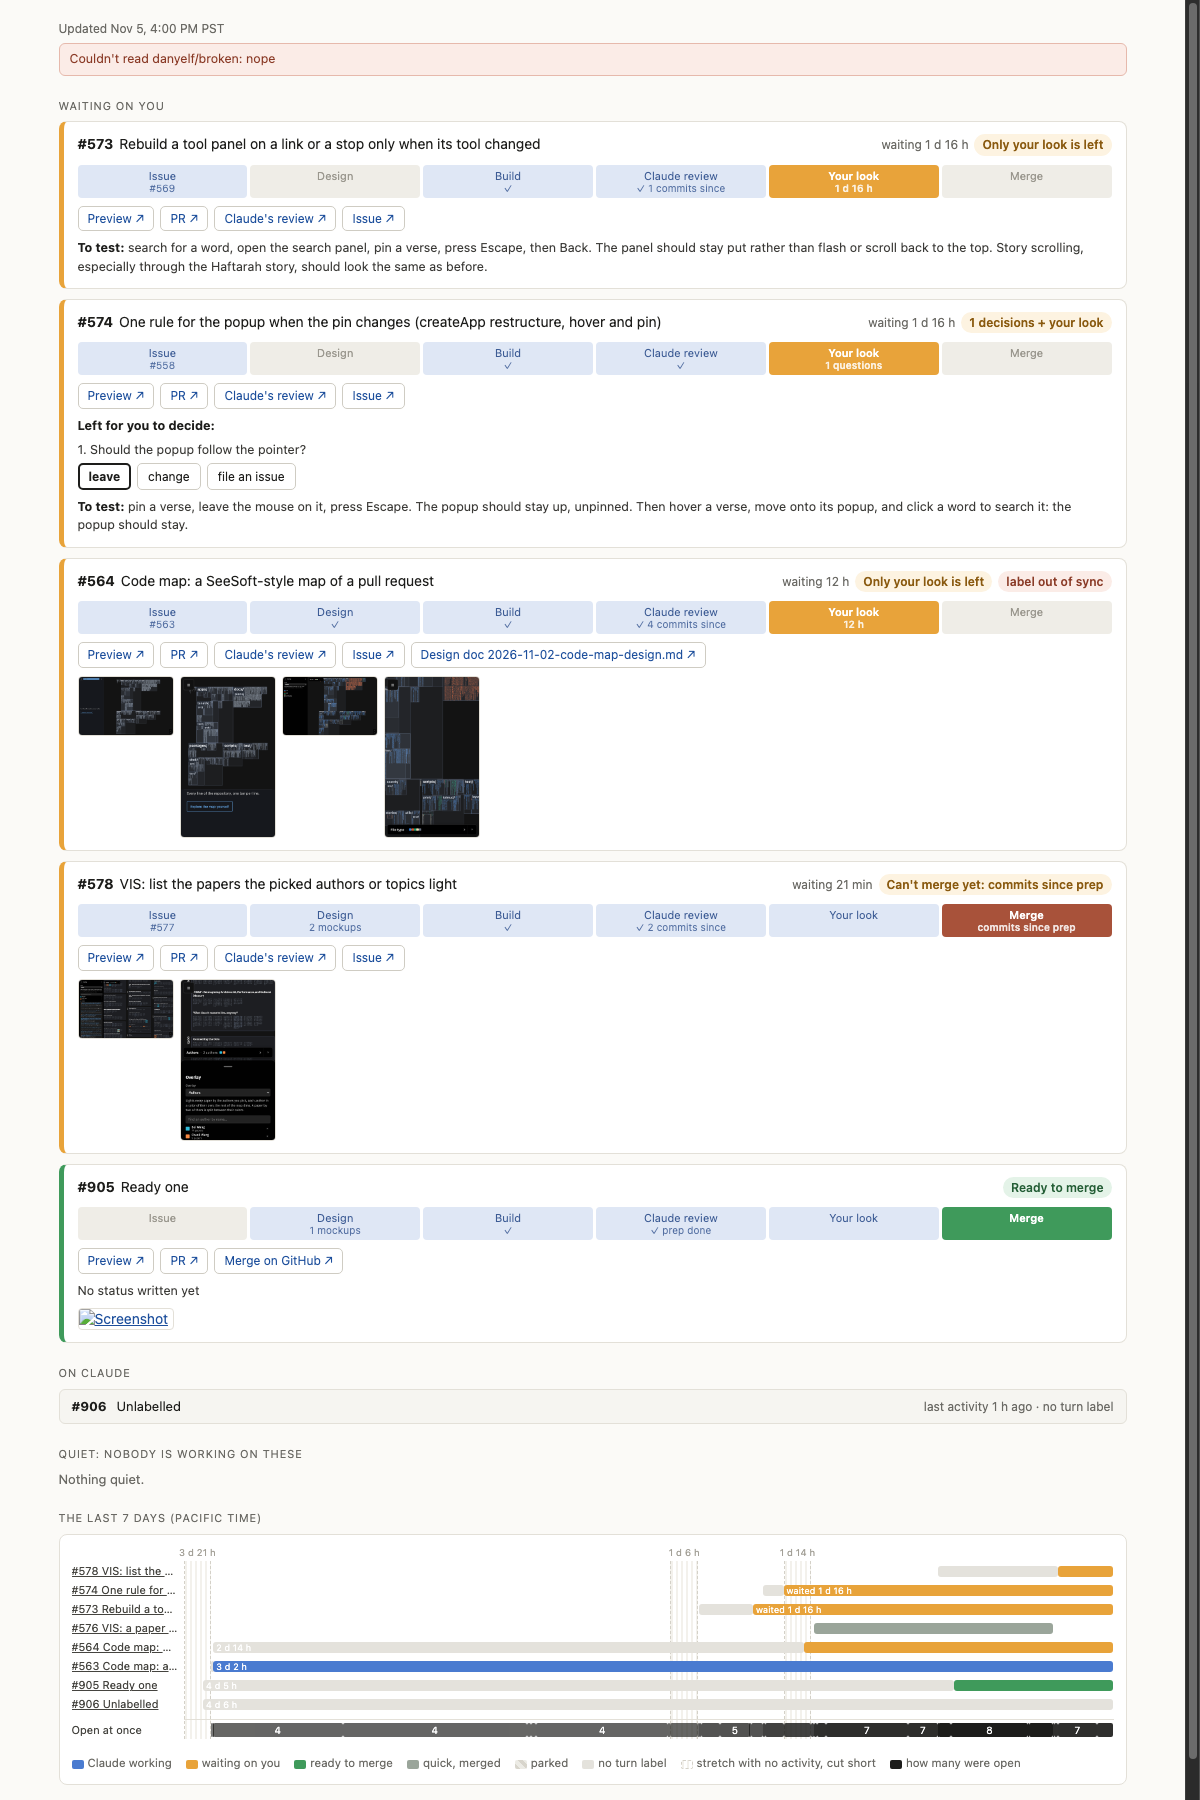
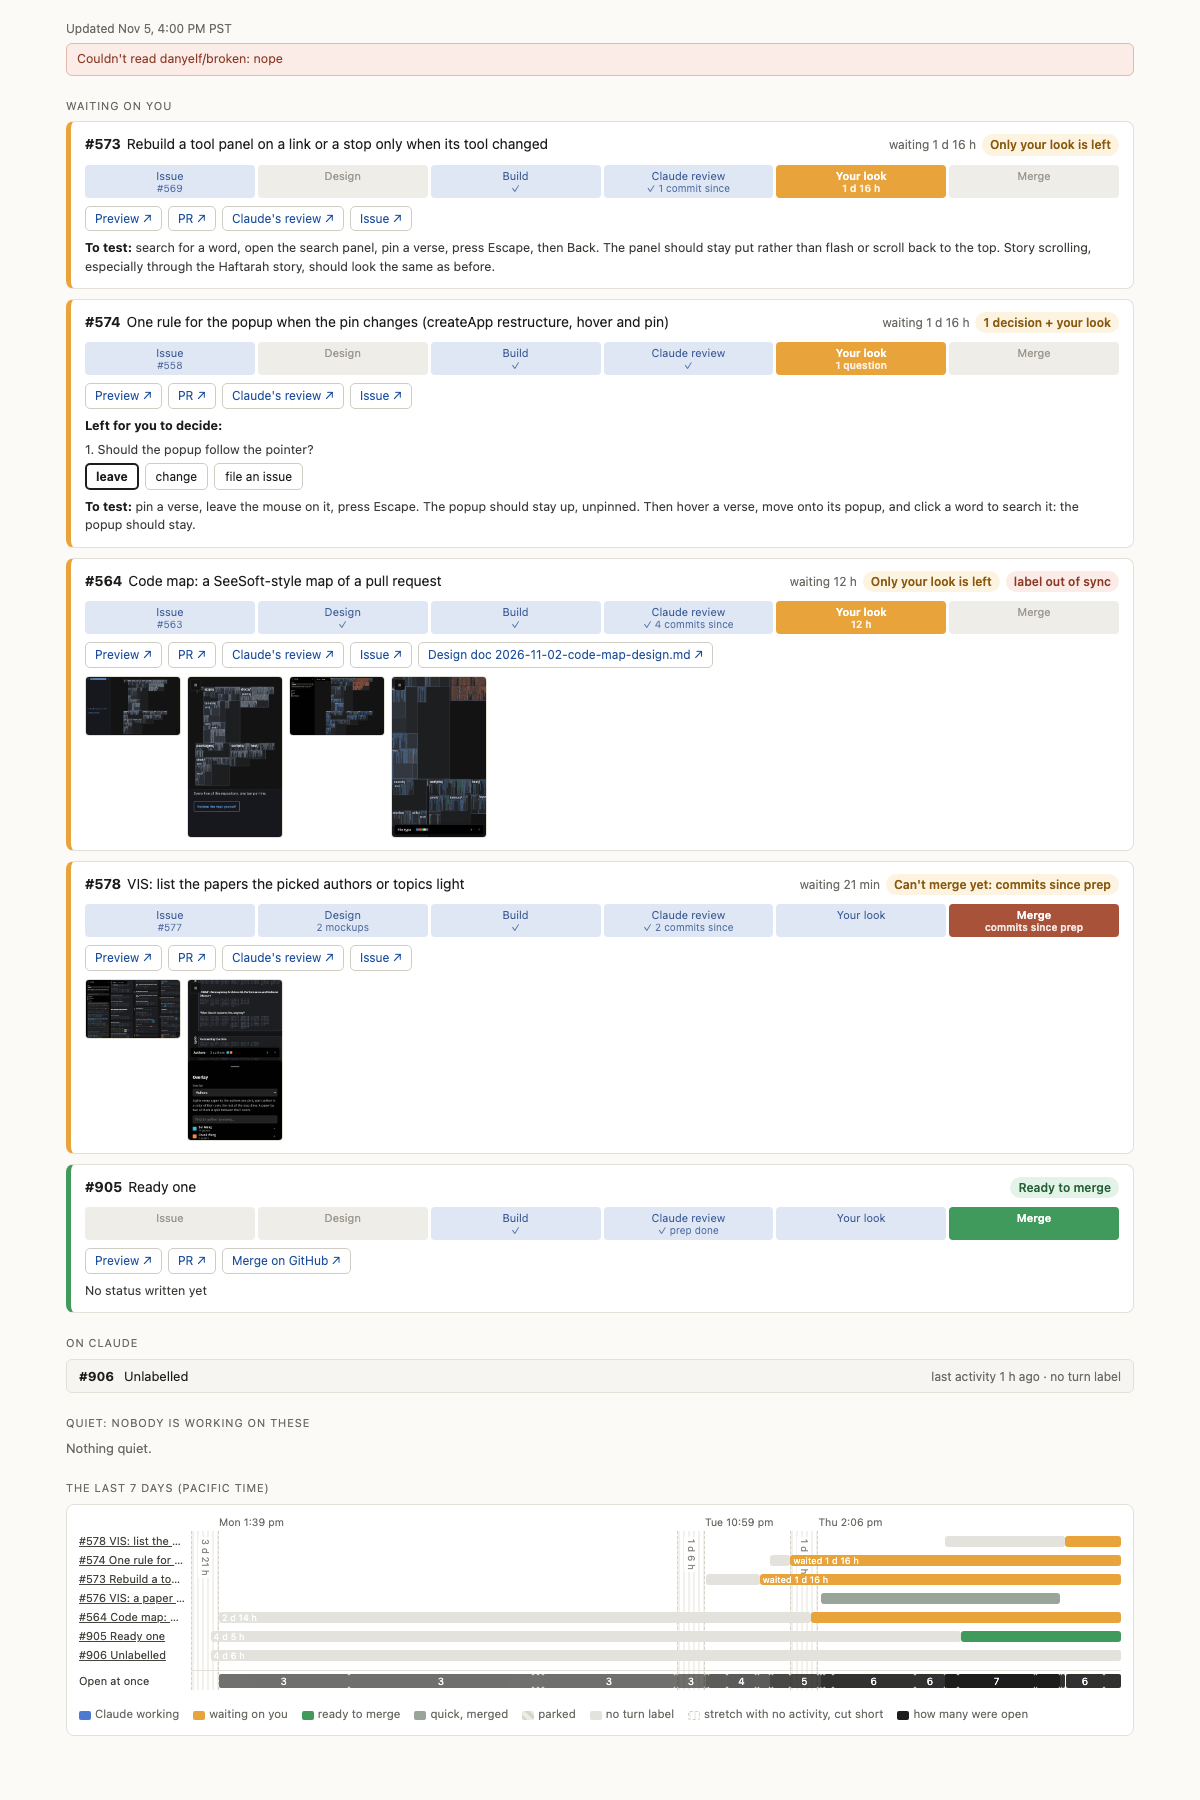
Board review fixes: timeline duplicates, GitHub errors, out-of-sync rule, axis ticks, plurals
Claude-Session: https://claude.ai/code/session_01SVi92T9ZbuiWYzEJuPHN6t

diff --git a/src/worker/board.ts b/src/worker/board.ts
@@ -2,7 +2,7 @@ import type { ItemFacts, StageBox, Status, Turn } from '../shared/types.ts';
 import { extractToTest, parseStatus } from '../shared/status.ts';
 import { stageStrip, whyTag } from '../shared/stage.ts';
 import { buildTimeline, type Timeline } from '../shared/timeline.ts';
-import { effectiveTurn, formatWait, turnOf, waitingSince } from '../shared/turn.ts';
+import { effectiveTurn, formatWait, waitingSince } from '../shared/turn.ts';
 
 export interface Card {
   facts: ItemFacts;
@@ -39,13 +39,12 @@ function statusOf(f: ItemFacts): Status | null {
 function makeCard(f: ItemFacts, now: Date): Card {
   const status = statusOf(f);
   const effective = effectiveTurn(f.labels, status);
-  const labelSaysOtherwise = status?.waitingOn === 'Danyel' && turnOf(f.labels) !== 'danyel';
   const since = waitingSince(f, status);
   return {
     facts: f,
     status,
     turn: effective.turn,
-    outOfSync: effective.outOfSync || labelSaysOtherwise,
+    outOfSync: effective.outOfSync,
     strip: stageStrip(f, status, now),
     why: whyTag(f, status, now),
     waitingSince: since,
@@ -60,12 +59,12 @@ function time(iso: string): number {
 
 export function buildBoard(items: ItemFacts[], errors: string[], now: Date): Board {
   const open = items.filter(isOpen);
-  const closedByPr = new Set(
-    open.filter((f) => f.kind === 'pr' && f.linkedIssue !== null).map((f) => `${f.repo}#${f.linkedIssue}`),
+  // An issue stands in only until its PR exists, whether that PR is still open or already merged.
+  const standsInFor = new Set(
+    items.filter((f) => f.kind === 'pr' && f.linkedIssue !== null && (f.merged || f.closedAt === null)).map((f) => `${f.repo}#${f.linkedIssue}`),
   );
-  const cards = open
-    .filter((f) => !(f.kind === 'issue' && closedByPr.has(`${f.repo}#${f.number}`)))
-    .map((f) => makeCard(f, now));
+  const hasPr = (f: ItemFacts) => f.kind === 'issue' && standsInFor.has(`${f.repo}#${f.number}`);
+  const cards = open.filter((f) => !hasPr(f)).map((f) => makeCard(f, now));
 
   const waiting: Card[] = [];
   const onClaude: Card[] = [];
@@ -88,5 +87,7 @@ export function buildBoard(items: ItemFacts[], errors: string[], now: Date): Boa
   onClaude.sort((a, b) => time(b.facts.lastActivityAt) - time(a.facts.lastActivityAt));
   quiet.sort((a, b) => time(b.facts.lastActivityAt) - time(a.facts.lastActivityAt));
 
-  return { waiting, onClaude, quiet, timeline: buildTimeline(items, now), errors, generatedAt: now.toISOString() };
+  const timelineItems = items.filter((f) => !hasPr(f));
+
+  return { waiting, onClaude, quiet, timeline: buildTimeline(timelineItems, now), errors, generatedAt: now.toISOString() };
 }

diff --git a/src/shared/stage.ts b/src/shared/stage.ts
@@ -1,6 +1,10 @@
 import type { BoxState, ItemFacts, StageBox, Status } from './types.ts';
 import { effectiveTurn, formatWait, isReadyToMerge, waitingSince } from './turn.ts';
 
+function count(n: number, noun: string): string {
+  return `${n} ${noun}${n === 1 ? '' : 's'}`;
+}
+
 function box(name: StageBox['name'], state: BoxState, note = ''): StageBox {
   return { name, state, note };
 }
@@ -46,7 +50,7 @@ export function stageStrip(f: ItemFacts, s: Status | null, now: Date = new Date(
   const reviewed = f.reviewSha !== null || f.prepDone;
   const since = f.prepDone ? f.commitsSincePrep : f.commitsSinceReview;
   const review = !reviewed ? box('Claude review', 'todo')
-    : (since ?? 0) > 0 ? box('Claude review', 'done', `✓ ${since} commits since`)
+    : (since ?? 0) > 0 ? box('Claude review', 'done', `✓ ${count(since ?? 0, 'commit')} since`)
     : box('Claude review', 'done', f.prepDone ? '✓ prep done' : '✓');
 
   let look: StageBox;
@@ -54,7 +58,7 @@ export function stageStrip(f: ItemFacts, s: Status | null, now: Date = new Date(
     look = box('Your look', 'done');
   } else if (turn === 'danyel') {
     const at = waitingSince(f, s);
-    look = box('Your look', 'now', questions > 0 ? `${questions} questions` : at ? formatWait(at, now) : '');
+    look = box('Your look', 'now', questions > 0 ? count(questions, 'question') : at ? formatWait(at, now) : '');
   } else {
     look = box('Your look', 'todo');
   }
@@ -70,7 +74,7 @@ export function whyTag(f: ItemFacts, s: Status | null, now: Date = new Date()): 
   const questions = s?.questions.length ?? 0;
   if (merge.state === 'ready') return 'Ready to merge';
   if (merge.state === 'blocked') return `Can't merge yet: ${merge.note}`;
-  if (questions > 0 && turn === 'danyel') return `${questions} decisions + your look`;
+  if (questions > 0 && turn === 'danyel') return `${count(questions, 'decision')} + your look`;
   if (look.state === 'now') return 'Only your look is left';
   if (turn === 'nobody') return 'Parked';
   return '';

diff --git a/src/shared/timeline.ts b/src/shared/timeline.ts
@@ -96,6 +96,14 @@ const LA = { timeZone: 'America/Los_Angeles' } as const;
 const dateParts = new Intl.DateTimeFormat('en-US', { ...LA, year: 'numeric', month: 'numeric', day: 'numeric', hour: 'numeric', minute: 'numeric', hourCycle: 'h23' });
 const weekday = new Intl.DateTimeFormat('en-US', { ...LA, weekday: 'short' });
 
+const clock = new Intl.DateTimeFormat('en-US', { ...LA, weekday: 'short', hour: 'numeric', minute: 'numeric', hour12: true });
+
+function clockLabel(t: number): string {
+  const p = Object.fromEntries(clock.formatToParts(new Date(t)).map((x) => [x.type, x.value]));
+  const minutes = p.minute === '00' ? '' : `:${p.minute}`;
+  return `${p.weekday} ${p.hour}${minutes} ${String(p.dayPeriod).toLowerCase()}`;
+}
+
 function localParts(t: number): { y: number; m: number; d: number; h: number; min: number } {
   const p = Object.fromEntries(dateParts.formatToParts(new Date(t)).map((x) => [x.type, Number(x.value)]));
   return { y: p.year, m: p.month, d: p.day, h: p.hour, min: p.minute };
@@ -181,9 +189,13 @@ export function buildTimeline(items: ItemFacts[], now: Date, days = 7): Timeline
     length: formatWait(new Date(c.start).toISOString(), new Date(c.end)),
   }));
 
-  const ticks: Tick[] = localMidnights(start, nowMs)
+  // Reference ticks: the window start and where every cut ends, so the axis always says what time it is.
+  const anchors: Tick[] = [start, ...cutSpans.map((c) => c.end)].map((t) => ({ at: pos(t), text: clockLabel(t) }));
+  const midnights: Tick[] = localMidnights(start, nowMs)
     .filter((t) => !cutSpans.some((c) => t > c.start && t < c.end))
-    .map((t) => ({ at: pos(t), text: `${weekday.format(new Date(t))} 0:00` }));
+    .map((t) => ({ at: pos(t), text: `${weekday.format(new Date(t))} 0:00` }))
+    .filter((m) => !anchors.some((a) => Math.abs(a.at - m.at) < 0.04));
+  const ticks: Tick[] = [...anchors, ...midnights].sort((a, b) => a.at - b.at);
 
   const openCount = sorted.map((t) => ({
     at: pos(t),

diff --git a/src/worker/render.ts b/src/worker/render.ts
@@ -50,7 +50,7 @@ const CSS = `
   .axis { position:relative; height:16px; font-size:10.5px; color:var(--mute); }
   .axis span { position:absolute; top:0; white-space:nowrap; }
   .fold { position:absolute; top:16px; bottom:0; background:repeating-linear-gradient(90deg,#f3f1ec 0 2px,#fff 2px 5px); border-left:1px dashed #d4d1c8; border-right:1px dashed #d4d1c8; }
-  .fold em { position:absolute; top:-15px; left:50%; transform:translateX(-50%); font-size:9.5px; color:#a3a097; font-style:normal; white-space:nowrap; }
+  .fold em { position:absolute; top:6px; left:50%; transform:translateX(-50%); writing-mode:vertical-rl; font-size:9.5px; color:#8a877e; background:#fff; padding:2px 0; font-style:normal; white-space:nowrap; }
   .lane { position:relative; height:17px; margin:2px 0; }
   .lane .lab { position:absolute; left:-112px; width:106px; font-size:11px; white-space:nowrap; overflow:hidden; text-overflow:ellipsis; color:#45443f; }
   .lane .bar { position:absolute; top:3px; height:11px; border-radius:3px; overflow:hidden; font-size:9px; line-height:11px; color:#fff; white-space:nowrap; padding-left:3px; }
@@ -173,7 +173,9 @@ function renderLane(l: Lane): string {
 }
 
 function renderTimeline(t: Timeline): string {
-  const axis = t.ticks.map((k) => `<span style="left:${pct(k.at)}">${esc(k.text)}</span>`).join('');
+  // Where two labels would overlap, keep the later one.
+  const readable = t.ticks.filter((k, i) => i === t.ticks.length - 1 || t.ticks[i + 1]!.at - k.at >= 0.08);
+  const axis = readable.map((k) => `<span style="left:${pct(k.at)}">${esc(k.text)}</span>`).join('');
   const folds = t.cuts
     .map((c) => `<div class="fold" style="left:${pct(c.at)};width:${pct(c.width)}"><em>${esc(c.length)}</em></div>`)
     .join('');

diff --git a/test/timeline.test.ts b/test/timeline.test.ts
@@ -87,6 +87,31 @@ describe('buildTimeline', () => {
     expect(at('Mon 0:00')).toBeCloseTo((mon - start) / total, 5);
   });
 
+  it('always ticks the window start and the far edge of each cut, in Pacific time', () => {
+    const start = NOW - 4 * 24 * H;
+    const quietStart = start + 18 * H;
+    const quietEnd = quietStart + 38 * H;
+    const item = facts({
+      createdAt: iso(start - H),
+      activityTimes: [...dense(start, quietStart), ...dense(quietEnd, NOW)],
+    });
+    const t = buildTimeline([item], new Date(NOW), 4);
+    // start is 2026-11-01T20:00Z, which is noon on Sunday in Pacific standard time
+    expect(t.ticks[0]).toEqual({ at: 0, text: 'Sun 12 pm' });
+    const edge = t.ticks.find((x) => x.at > 0 && x.text !== t.ticks[0].text && !x.text.endsWith('0:00'))!;
+    expect(edge.at).toBeCloseTo(t.cuts[0].at + t.cuts[0].width, 5);
+    expect(edge.text).toMatch(/^\w{3} \d{1,2}(:\d\d)? [ap]m$/);
+  });
+
+  it('drops a midnight tick within 0.04 of a reference tick', () => {
+    const start = Date.parse('2026-11-03T07:30:00Z'); // just after local midnight
+    const now = start + 2 * 24 * H;
+    const item = facts({ createdAt: iso(start), activityTimes: [iso(start), iso(start + 12 * H), iso(start + 24 * H), iso(now)] });
+    const t = buildTimeline([item], new Date(now), 2);
+    expect(t.ticks[0].at).toBe(0);
+    expect(t.ticks.filter((x) => x.at < 0.04)).toHaveLength(1);
+  });
+
   it('handles no items', () => {
     const t = buildTimeline([], new Date(NOW));
     expect(t.lanes).toEqual([]);

diff --git a/test/stage.test.ts b/test/stage.test.ts
@@ -25,7 +25,7 @@ describe('stage strip', () => {
     expect(states(f, s)).toEqual(['done', 'done', 'done', 'done', 'now', 'todo']);
     expect(box(f, s, 'Issue').note).toBe('#569');
     expect(box(f, s, 'Design').note).toBe('✓');
-    expect(box(f, s, 'Claude review').note).toBe('✓ 1 commits since');
+    expect(box(f, s, 'Claude review').note).toBe('✓ 1 commit since');
     expect(box(f, s, 'Your look').note).toBe('1 d 3 h');
     expect(box(f, s, 'Merge').note).toBe('rebase first');
     expect(whyTag(f, s, now)).toBe('Only your look is left');
@@ -37,6 +37,13 @@ describe('stage strip', () => {
     expect(box(f, s, 'Your look').note).toBe('2 questions');
     expect(box(f, s, 'Merge')).toEqual({ name: 'Merge', state: 'todo', note: 'after #573' });
     expect(whyTag(f, s, now)).toBe('2 decisions + your look');
+  });
+
+  it('says one question and one decision in the singular', () => {
+    const f = facts({ number: 575, labels: ['on danyel'] });
+    const s = status({}, 1);
+    expect(box(f, s, 'Your look').note).toBe('1 question');
+    expect(whyTag(f, s, now)).toBe('1 decision + your look');
   });
 
   describe('578 after prep', () => {

diff --git a/test/board.test.ts b/test/board.test.ts
@@ -31,6 +31,18 @@ describe('buildBoard', () => {
     expect(all.find((c) => c.facts.number === 563)).toBeUndefined();
   });
 
+  it('gives an issue no timeline lane once its PR exists, open or merged', async () => {
+    const board = buildBoard(await boardItems(), [], NOW);
+    expect(board.timeline.lanes.some((l) => l.label.startsWith('#563 '))).toBe(false);
+    expect(board.timeline.lanes.some((l) => l.label.startsWith('#564 '))).toBe(true);
+
+    const issue = facts({ number: 10, kind: 'issue', labels: ['in-progress'], lastActivityAt: '2026-11-05T20:00:00Z' });
+    const pr = facts({ number: 11, linkedIssue: 10, merged: true, mergedAt: '2026-11-05T21:00:00Z', closedAt: '2026-11-05T21:00:00Z', createdAt: '2026-11-05T10:00:00Z' });
+    const merged = buildBoard([issue, pr], [], NOW);
+    expect(merged.timeline.lanes.map((l) => l.label.split(' ')[0])).toEqual(['#11']);
+    expect(merged.onClaude).toEqual([]);
+  });
+
   it('keeps merged items off the cards', async () => {
     const board = buildBoard(await boardItems(), [], NOW);
     const all = [...board.waiting, ...board.onClaude, ...board.quiet];

diff --git a/test/worker.test.ts b/test/worker.test.ts
@@ -116,6 +116,15 @@ describe('worker', () => {
     expect(puts).toHaveLength(0);
   });
 
+  it('shows an error line, not a bare 500, when reading GitHub throws, and does not cache it', async () => {
+    const { cache, puts } = fakeCache();
+    const h = makeHandler({ fetchItems: async () => { throw new Error('Unterminated string'); }, cache, getKey, now: () => NOW });
+    const res = await get(h, 'https://board.example.com/', { 'Cf-Access-Jwt-Assertion': await sign() });
+    expect(res.status).toBe(200);
+    expect(await res.text()).toContain('Couldn&#39;t read GitHub: Unterminated string');
+    expect(puts).toHaveLength(0);
+  });
+
   it('answers other paths with 404', async () => {
     const res = await get(handler(ok).h, 'http://localhost:8787/nope', {}, { ...env, ALLOW_LOCAL: '1' });
     expect(res.status).toBe(404);

diff --git a/src/shared/turn.ts b/src/shared/turn.ts
@@ -16,7 +16,8 @@ const TURN_OF_WAITING_ON: Record<Status['waitingOn'], Turn> = {
 export function effectiveTurn(labels: string[], s: Status | null): { turn: Turn; outOfSync: boolean } {
   const fromLabels = turnOf(labels);
   const turn: Turn = fromLabels === 'danyel' || s?.waitingOn === 'Danyel' ? 'danyel' : fromLabels;
-  const outOfSync = s !== null && fromLabels !== 'none' && TURN_OF_WAITING_ON[s.waitingOn] !== fromLabels;
+  const statusSaysDanyel = s?.waitingOn === 'Danyel' && fromLabels !== 'danyel';
+  const outOfSync = s !== null && (statusSaysDanyel || (fromLabels !== 'none' && TURN_OF_WAITING_ON[s.waitingOn] !== fromLabels));
   return { turn, outOfSync };
 }
 

diff --git a/src/worker/index.ts b/src/worker/index.ts
@@ -29,7 +29,12 @@ export function makeHandler(deps: Deps): Handler {
     const hit = await deps.cache?.match(key);
     if (hit) return (await hit.json()) as { items: ItemFacts[]; errors: string[] };
 
-    const fresh = await deps.fetchItems(env.GITHUB_TOKEN, at);
+    let fresh: { items: ItemFacts[]; errors: string[] };
+    try {
+      fresh = await deps.fetchItems(env.GITHUB_TOKEN, at);
+    } catch (e) {
+      return { items: [], errors: [`Couldn't read GitHub: ${e instanceof Error ? e.message : String(e)}`] };
+    }
     if (deps.cache && fresh.errors.length === 0) {
       await deps.cache.put(
         key,

diff --git a/test/turn.test.ts b/test/turn.test.ts
@@ -18,6 +18,9 @@ describe('effectiveTurn', () => {
   it('flags a label that disagrees with the status', () => {
     expect(effectiveTurn(['on danyel'], status({ waitingOn: 'Claude' }))).toEqual({ turn: 'danyel', outOfSync: true });
   });
+  it('flags a status that says Danyel when there is no turn label at all', () => {
+    expect(effectiveTurn([], status({ waitingOn: 'Danyel' }))).toEqual({ turn: 'danyel', outOfSync: true });
+  });
   it('is in sync with no status', () => {
     expect(effectiveTurn(['on danyel'], null)).toEqual({ turn: 'danyel', outOfSync: false });
   });
